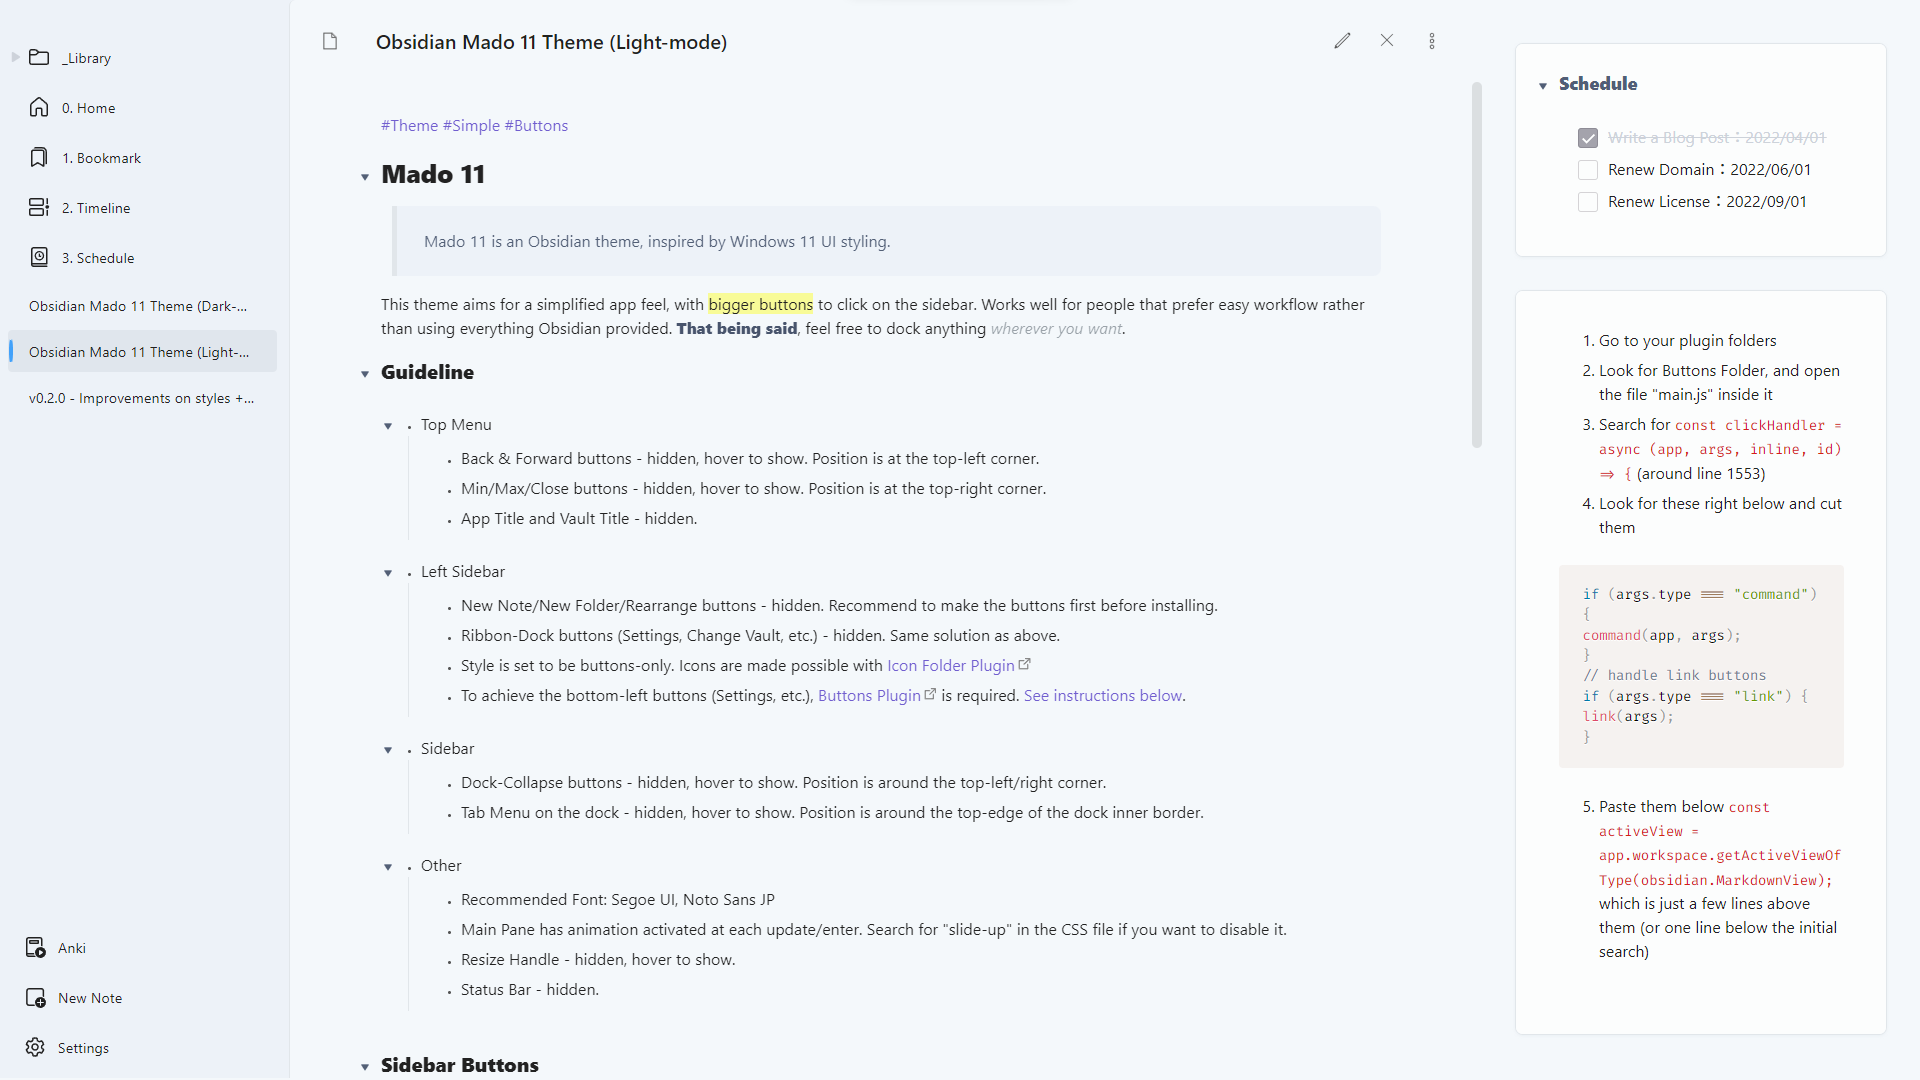
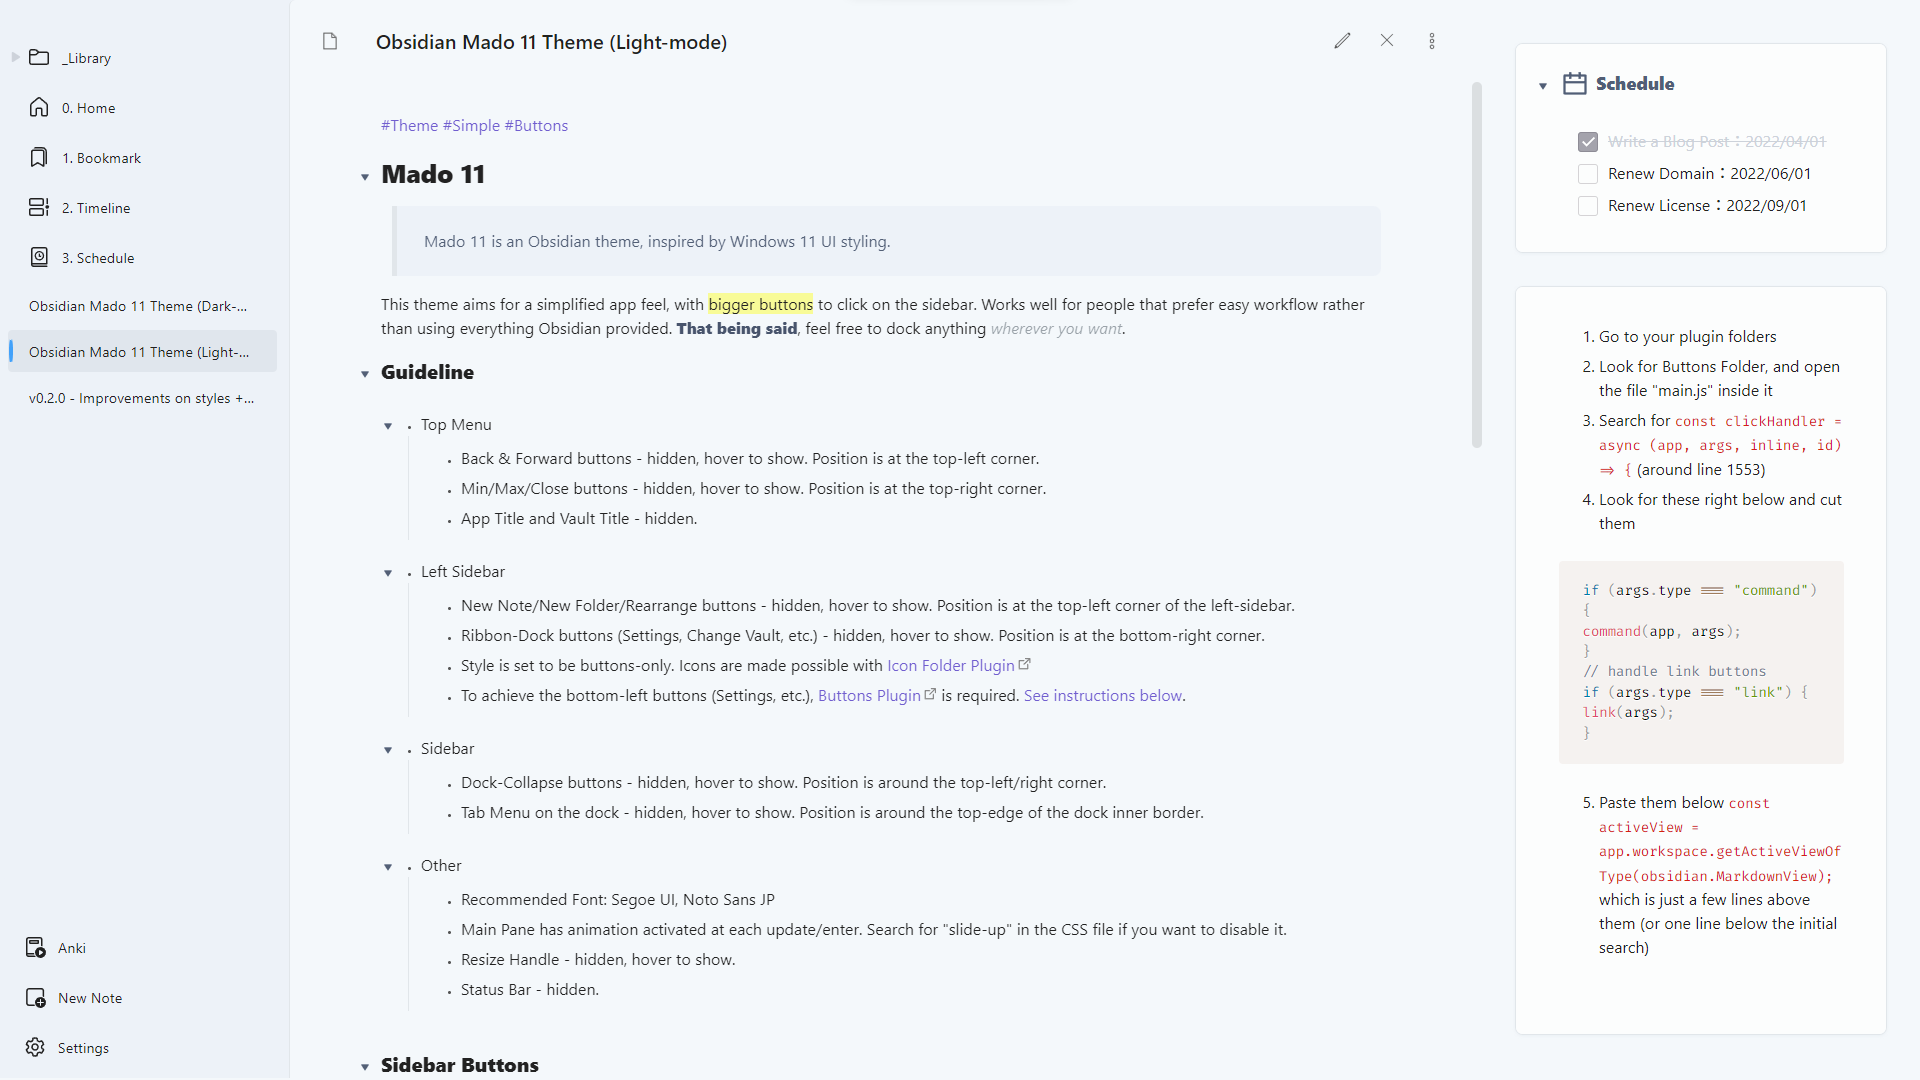
v0.2.3 Applied hover-to-show for ribbon docks and explorer buttons
The buttons that were hidden before (Settings, Change Vault, New File/Folder, Reordering, etc.) are now changed to hover-to-show

diff --git a/obsidian.css b/obsidian.css
@@ -569,7 +569,9 @@ ul > li.task-list-item.is-checked *,
 }
 
 /* Show expand button when hovered */
-.workspace-ribbon-collapse-btn{
+.workspace-ribbon-collapse-btn,
+.side-dock-actions,
+.side-dock-settings{
 	position:fixed;
 	visibility:visible;
 	top:0;
@@ -580,15 +582,45 @@ ul > li.task-list-item.is-checked *,
 	transition:0.1s background, 0.1s opacity;
 }
 
+/* Fix left ribbon position for easier hovering */
+.workspace-ribbon.side-dock-ribbon.mod-left .workspace-ribbon-collapse-btn{
+	left:-1px; 
+}
+
+.side-dock-actions{
+	top:initial;
+	bottom:114px;
+	left:-23px;
+	padding:0;
+}
+.side-dock-settings{
+	top:initial;
+	bottom:0;
+	left:-23px;
+	margin-bottom:0;
+	padding:0;
+}
+.side-dock-ribbon-action{
+	color:var(--text-muted);
+	padding:7px;
+}
+
 .mod-right.workspace-ribbon,
 .mod-right .workspace-ribbon-collapse-btn{
 	right:0;
 }
-.workspace-ribbon-collapse-btn:hover{
+.workspace-ribbon-collapse-btn:hover,
+.side-dock-actions:hover,
+.side-dock-settings:hover{
 	visibility:visible;
 	opacity:1;
 	background:var(--button-hover);
+	border:1px solid var(--color-gray);
 	color:var(--color-dark-gray);
+}
+.side-dock-actions:hover,
+.side-dock-settings:hover{
+	left:0;
 }
 
 
@@ -719,9 +751,40 @@ ul > li.task-list-item.is-checked *,
 */
 /* markdown-preview-sizer is note placed onto the dock */
 
-/* Left dock navigation hidden (new note, new folder, reorder) */
+/* Left dock navigation (new note, new folder, reorder) */
 .mod-left-split .nav-header{
-	display:none;
+	position:absolute;
+	top:13px;
+	right:-23px;
+	flex-direction:column;
+	z-index:1;
+	padding:0;
+	opacity:0;
+}
+.mod-left-split .nav-header:hover{
+	right:0;
+	opacity:1;
+}
+
+.mod-left-split .nav-header .nav-buttons-container{
+	flex-direction:column;
+}
+.mod-left-split .nav-header .nav-action-button{
+	padding:7px 7px 3px;
+	margin:0;
+	color:var(--color-dark-gray);
+	border-radius:var(--button-radius);
+	transition:0.1s background, 0.1s opacity;
+	background:var(--background-secondary);
+	top:0;
+	border:1px solid var(--color-gray);
+}
+.mod-left-split .nav-header .nav-action-button:hover{
+	background:var(--button-hover);
+	color:var(--color-dark-gray);
+}
+.mod-left-split .nav-header .nav-action-button:active{
+	opacity:0.75;
 }
 
 /* Left dock Vault title hidden */

diff --git a/README.md b/README.md
@@ -1,18 +1,30 @@
 # Obsidian Theme - Mado 11
  
-![](cover.png)
-![](cover2.png)
-
 Mado 11 is an Obsidian theme, inspired by Windows 11 UI styling.
 
 This theme aims for a simplified app feel, with bigger buttons to click on the sidebar. Works well for people that prefer easy workflow rather than using everything Obsidian provided.
 
 That being said, feel free to dock anything wherever you want.
 
+![](cover.png)
+![](cover2.png)
+
+## Index
+
+- [Installation](#installation)
+- [Guideline](#guideline)
+- [Special CSS Class: mado-header](#special-css-class-mado-header)
+- [Sidebar Buttons Installation](#sidebar-buttons-installation)
+- [Changelog](#changelog)
+
 ## Installation
 
 - Download the file "obsidian.css" and place it inside your Obsidian Snippet Folder. (You may rename the file to your liking)
 - Enable it through Settings → Appearance → CSS Snippets.
+
+Or
+
+- Download the theme through Obsidian's theme store!
 
 ## Guideline
 
@@ -24,10 +36,10 @@ That being said, feel free to dock anything wherever you want.
 
 #### Left Sidebar
 
-- New Note/New Folder/Rearrange buttons - hidden. Recommend to make the buttons first before installing.
-- Ribbon-Dock buttons (Settings, Change Vault, etc.) - hidden. Same solution as above.
+- New Note/New Folder/Rearrange buttons - hidden, hover to show. Position is at the top-left corner of the left-sidebar.
+- Ribbon buttons (Settings, Change Vault, etc.) - hidden, hover to show. Position is at the bottom-right corner.
 - Style is set to be buttons-only. Icons are made possible with [Icon Folder Plugin](https://github.com/FlorianWoelki/obsidian-icon-folder)
-- To achieve the bottom-left buttons (Settings, etc.), [Buttons Plugin](https://github.com/shabegom/buttons) is required. [See instructions below](#sidebar-buttons).
+- To achieve the bottom-left buttons (Settings, etc.), [Buttons Plugin](https://github.com/shabegom/buttons) is required. [See instructions below](#sidebar-buttons-installation).
 
 #### Sidebar
 
@@ -41,7 +53,7 @@ That being said, feel free to dock anything wherever you want.
 - Resize Handle - hidden, hover to show.
 - Status Bar - hidden.
 
-## Special class: mado-header
+## Special CSS Class: mado-header
 Turn your headers into buttons, and align all contents to their width and style!
 ![](header-sample-light.png)
 ![](header-sample-dark.png)
@@ -77,7 +89,7 @@ Or Code
 ~~~
    
 
-## Sidebar Buttons 
+## Sidebar Buttons Installation
 
 1. Install [Buttons Plugin](https://github.com/shabegom/buttons).
 1. Create a note and insert a "button" (Ctrl+P, search for "Buttons: Button Maker") that should look like below. You may use an SVG link as Icon in the "name" section
@@ -112,7 +124,10 @@ An adjustment to the Buttons Plugin `main.js` file is required as of April 2022,
 5. Paste them below `const activeView = app.workspace.getActiveViewOfType(obsidian.MarkdownView);` which is just a few lines above them (or one line below the initial search)  
 
 
-## Update  
+## Changelog  
+
+v0.2.3
+- Applied hover-to-show for hidden ribbon docks (settings, change vault, etc.) and explorer buttons (new file, reorder, etc.)
 
 v0.2.2
 - Applied minor styling to Callout feature
